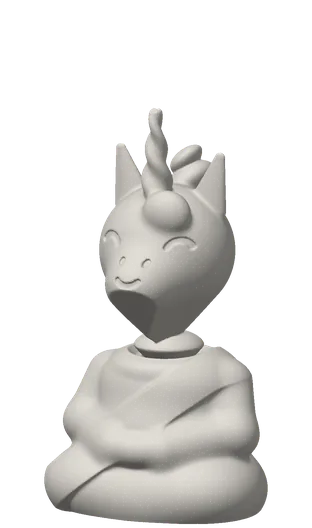
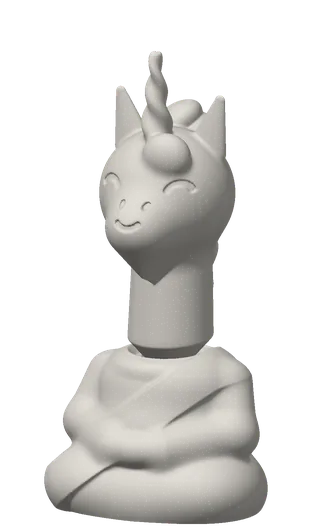
feat: unicorn on a horse's neck with a long mane; card notes that runner-up heads swap

Changed region(s): [[0.3173, 0.0909, 0.7788, 0.6667]]

diff --git a/assets/site.js b/assets/site.js
@@ -6,7 +6,7 @@
   var S = window.QUIET_COMPANY;
   // Seated height in mm for the heads that stand well above the rest; standing and walking add 25.
   var TALL_MM = { glasses: 118, cyclops: 123, longhair: 122, beard: 123, ponytail: 124, curls: 130, bun: 134, troll: 122, husky: 123, lion: 123, robot: 123, quiff: 125, ghost: 125, minotaur: 126, 
-                  alien: 128, jester: 131, dragon: 132, unicorn: 137, bunny: 140, elf: 140, wizard: 140, giraffe: 148 };
+                  alien: 128, jester: 131, dragon: 132, bunny: 140, elf: 140, wizard: 140, giraffe: 148, unicorn: 155 };
   var HEAD_IDS = Object.keys(S.HEADS), BODY_IDS = Object.keys(S.BODIES);
 
   function el(tag, cls, text) {
@@ -125,7 +125,7 @@
     var alts = (q.get("alt") || "").split(",").filter(function (id) { return S.HEADS[id] && id !== head; }).slice(0, 2);
     if (alts.length) {
       copy.appendChild(el("h2", null, "Close behind"));
-      copy.appendChild(el("p", null, alts.length > 1 ? "Your answers also came near these two." : "Your answers also came near this one."));
+      copy.appendChild(el("p", null, alts.length > 1 ? "Your answers also came near these two. Heads lift off and swap, so either can take a turn on the same body." : "Your answers also came near this one. Heads lift off and swap, so it can take a turn on the same body."));
       var row = el("div", "alts");
       alts.forEach(function (id) { row.appendChild(tile(id, body)); });
       copy.appendChild(row);
